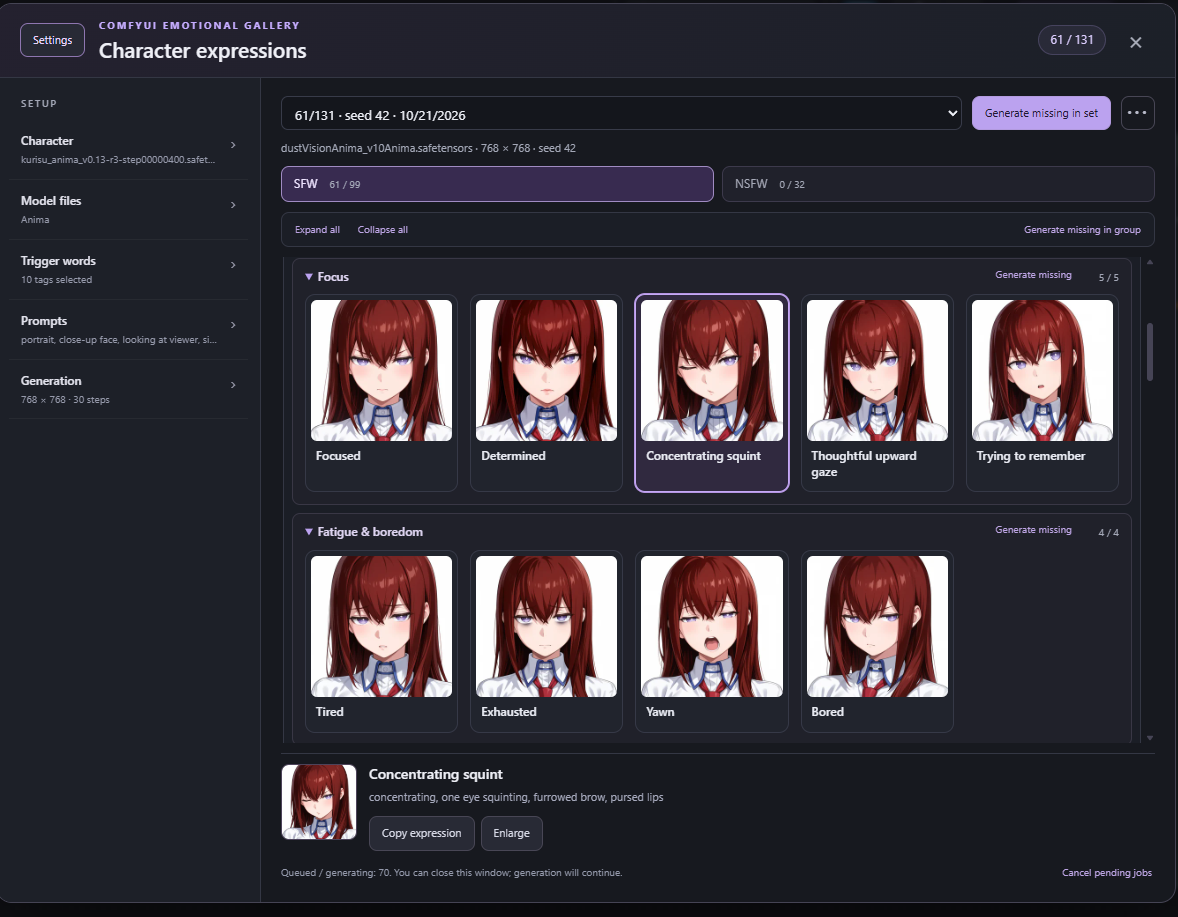
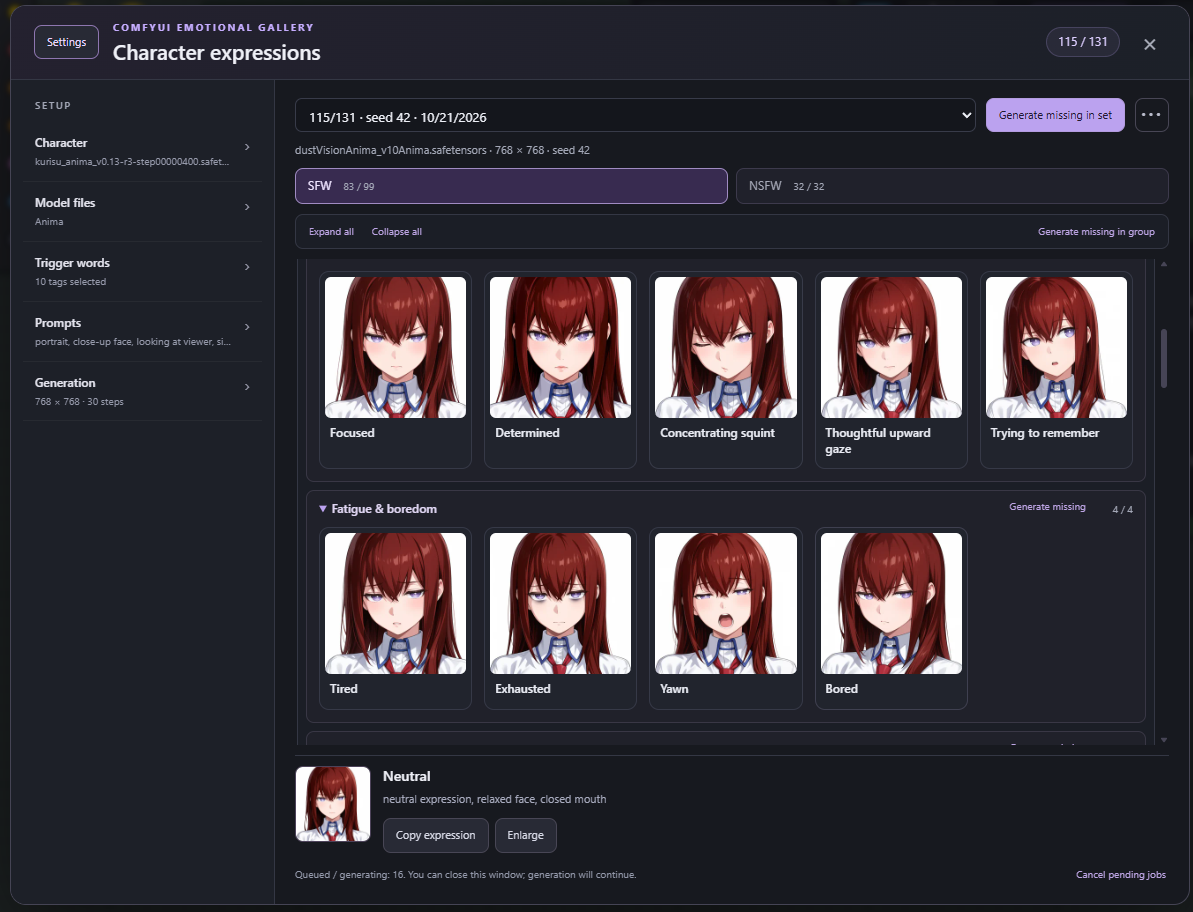
Add double-click preview and refresh gallery screenshot

diff --git a/web/gallery.js b/web/gallery.js
@@ -522,6 +522,7 @@ class EmotionGallery {
                 continue;
             }
             const card = button("", "eg-card", () => this.select(emotion.id));
+            card.addEventListener("dblclick", () => this.openPreview(emotion.id));
             card.setAttribute("aria-label", caption);
             card.classList.toggle("eg-card-custom", !!emotion.custom);
             const media = element("div", "eg-media");

diff --git a/README.md b/README.md
@@ -6,7 +6,7 @@ English | [Русский](README.ru.md)
 
 A custom ComfyUI extension for generating, caching, and browsing facial expressions for character LoRAs. Open **◉ Expressions**, choose your character and generation settings, then build a visual expression library. The interface is always in English. Users work through this window; the extension's implementation nodes are hidden from the node library, search, and Add Node menu.
 
-![ComfyUI Emotional Gallery with grouped expressions and collapsible settings](https://raw.githubusercontent.com/nikminer/ComfyUI-Emotional-Gallery/main/docs/images/gallery.png)
+![ComfyUI Emotional Gallery with grouped expressions and collapsible settings](https://raw.githubusercontent.com/nikminer/ComfyUI-Emotional-Gallery/main/docs/images/gallery.png?v=2)
 
 ## Features
 
@@ -17,7 +17,7 @@ A custom ComfyUI extension for generating, caching, and browsing facial expressi
 - Persistent image sets for each character and generation recipe. Generate only missing previews, delete unwanted sets, and restore the last deleted set.
 - Fixed **Expand all / Collapse all** controls above the scrolling list, with remembered scroll positions when switching tabs.
 - Select a preview and use **Copy expression** to copy only its expression tags.
-- Click a card to select its expression. Use **Enlarge** or the selected thumbnail to view the full image. Browse cached expressions in the current tab with the arrow buttons or Left / Right keys; close with Escape.
+- Click a card to select its expression. Double-click a cached card, or use **Enlarge** or the selected thumbnail, to view the full image. Browse cached expressions in the current tab with the arrow buttons or Left / Right keys; close with Escape.
 - Collapsible setup sections remember their state. **Settings** hides the sidebar, and **•••** contains custom-expression and saved-set actions.
 - A draggable launcher that can float or dock in the ComfyUI toolbar.
 
@@ -46,7 +46,7 @@ For updates, run `git pull` inside the extension directory, restart ComfyUI, and
 3. Select trigger words using the toggle buttons. **Group mode**, **All on / All off**, and **Reload tags** help manage metadata groups; the text field also accepts manual edits. Metadata is read locally from LoRA Manager, rgthree, Civitai sidecars, descriptions marked with trigger words, and explicit safetensors activation metadata.
 4. Set the base portrait prompt, negative prompt, LoRA strength, and generation settings. Anima defaults are 768×768, 30 steps, CFG 4, `euler_ancestral` / `simple`, shift 3, and CLIP strength 0. These are starting values you can adjust.
 5. Click **Create gallery**. Each expression is submitted to the regular ComfyUI queue. A shared seed makes comparison easier.
-6. Click a card to select its expression. **Copy expression** copies only expression tags; generation still uses your character trigger words and base prompt. To open the full image, use **Enlarge** or the selected thumbnail below the cards. Browse with Left / Right and close with Escape.
+6. Click a card to select its expression. **Copy expression** copies only expression tags; generation still uses your character trigger words and base prompt. To open the full image, double-click a cached card, or use **Enlarge** or the selected thumbnail below the cards. Browse with Left / Right and close with Escape.
 
 The sidebar has five collapsible sections: **Character**, **Model files**, **Trigger words**, **Prompts**, and **Generation**. Only Character starts expanded; missing model files open their section automatically. Section states and sidebar visibility are remembered in this browser. Use **Settings** to give the gallery the full window width. **•••** opens custom-expression, delete-set, and restore-set actions.
 

diff --git a/README.ru.md b/README.ru.md
@@ -6,7 +6,7 @@
 
 Отдельное окно с генератором и кешем 131 встроенного и своих выражений лица для Character LoRA. Открывается кнопкой **◉ Expressions** в интерфейсе ComfyUI. Ноды расширения скрыты из библиотеки, поиска и меню добавления: пользователь работает только через окно галереи. Интерфейс всегда на английском, без определения языка и переключателя. Названия файлов, ваши промпты и имена своих эмоций сохраняются как введены.
 
-![ComfyUI Emotional Gallery: группы выражений и сворачиваемые настройки](https://raw.githubusercontent.com/nikminer/ComfyUI-Emotional-Gallery/main/docs/images/gallery.png)
+![ComfyUI Emotional Gallery: группы выражений и сворачиваемые настройки](https://raw.githubusercontent.com/nikminer/ComfyUI-Emotional-Gallery/main/docs/images/gallery.png?v=2)
 
 ## Установка
 
@@ -54,7 +54,7 @@ git clone https://github.com/nikminer/ComfyUI-Emotional-Gallery.git comfyui_emot
 
 Ноды остаются зарегистрированы на сервере для внутреннего генератора и совместимости с прежними workflow. Добавлять их пользователю не нужно. Выберите карточку в окне и нажмите **Copy expression**, затем вставьте теги в положительный промпт своего workflow.
 
-Обычный клик по карточке выбирает эмоцию. Кнопка **Enlarge** или миниатюра выбранного выражения под карточками открывает исходное изображение крупно. Кнопки со стрелками и клавиши ← / → переключают готовые выражения текущей вкладки, Escape закрывает просмотр.
+Обычный клик по карточке выбирает эмоцию. Двойной клик по готовой карточке открывает исходное изображение крупно. Просмотр также открывается кнопкой **Enlarge** или миниатюрой выбранного выражения под карточками. Кнопки со стрелками и клавиши ← / → переключают готовые выражения текущей вкладки, Escape закрывает просмотр.
 
 Настройки распределены по сворачиваемым разделам **Character**, **Model files**, **Trigger words**, **Prompts** и **Generation**. По умолчанию развёрнут только Character; если модель не выбрана, раздел её файлов раскрывается автоматически. Состояние разделов запоминается. Кнопка **Settings** скрывает боковую панель целиком. Добавление своей эмоции, удаление и восстановление набора находятся в меню **•••**.
 

diff --git a/CHANGELOG.md b/CHANGELOG.md
@@ -2,13 +2,17 @@
 
 ## [Unreleased]
 
+### Features
+
+- Double-click a cached gallery card to open the full-image viewer; single-click still selects its expression.
+
 ### Fixes
 
 - Clicking a gallery card selects its expression without opening the full-image viewer. Enlarge and the selected thumbnail still open the viewer.
 
 ### Documentation
 
-- Add a gallery screenshot to the English and Russian README.
+- Update the gallery screenshot in the English and Russian README.
 
 ## [1.0.0] - 2026-10-21
 
